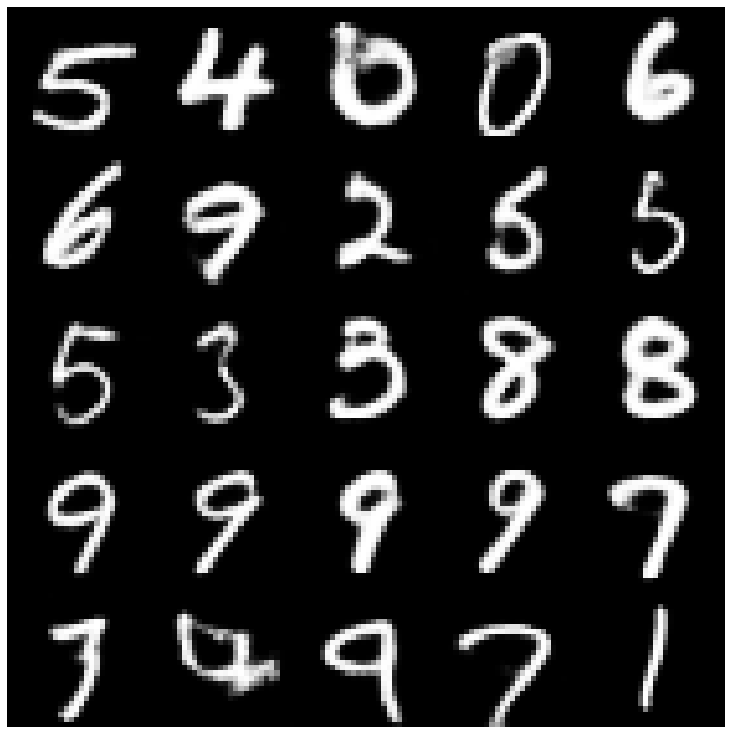
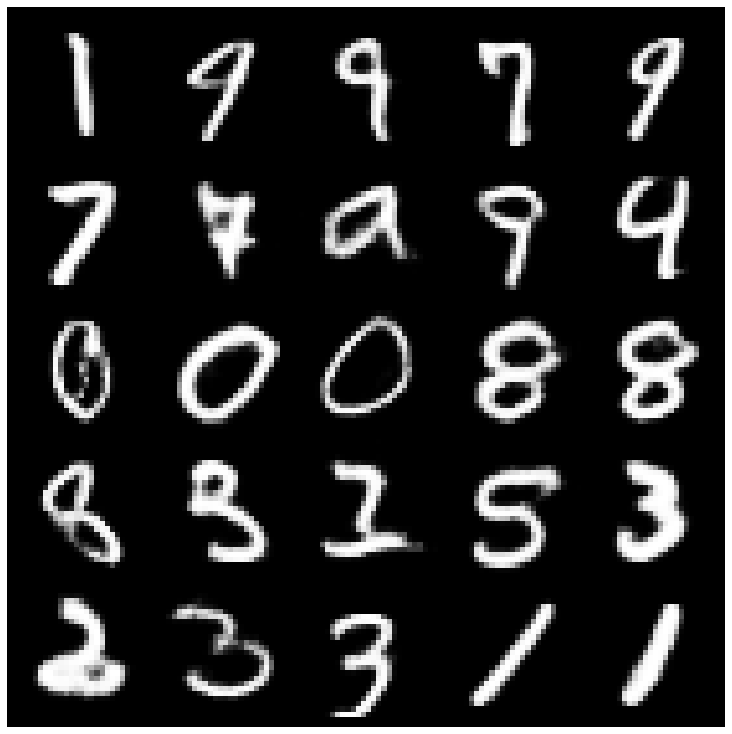
add showcases

diff --git a/README.md b/README.md
@@ -239,9 +239,10 @@ If you are experiencing any issues while running the code or request new feature
 |:----------------------------------:|:--------------------------------------------------------------------------------------------------------------------------------------------------------------------------------------:|:--------------------------------------------:|
 | AE  + GaussianMixtureSampler                  | ![AE GMM](https://github.com/clementchadebec/benchmark_VAE/blob/main/examples/showcases/ae_gmm_sampling_mnist.png) | ![AE GMM](https://github.com/clementchadebec/benchmark_VAE/blob/main/examples/showcases/ae_gmm_sampling_celeba.png)                                                                            |
 | VAE  + NormalSampler    | ![VAE Normal](https://github.com/clementchadebec/benchmark_VAE/blob/main/examples/showcases/vae_normal_sampling_mnist.png) |  ![VAE Normal](https://github.com/clementchadebec/benchmark_VAE/blob/main/examples/showcases/vae_normal_sampling_celeba.png)
-| Beta Variational Autoencoder (Beta_VAE) | | 
+| Beta Variational Autoencoder (Beta_VAE) | [Beta Normal](https://github.com/clementchadebec/benchmark_VAE/blob/main/examples/showcases/beta_vae_normal_sampling_mnist.png) | 
 | Importance Weighted Autoencoder (IWAE) +  Normal smapler | ![IWAE Normal](https://github.com/clementchadebec/benchmark_VAE/blob/main/examples/showcases/iwae_normal_sampling_mnist.png) | ![IWAE Normal](https://github.com/clementchadebec/benchmark_VAE/blob/main/examples/showcases/iwae_normal_sampling_celeba.png)
 | WAE + NormalSampler| ![WAE Normal](https://github.com/clementchadebec/benchmark_VAE/blob/main/examples/showcases/wae_normal_sampling_mnist.png) | ![WAE Normal](https://github.com/clementchadebec/benchmark_VAE/blob/main/examples/showcases/wae_normal_sampling_celeba.png)
+| INFO VAE + NormalSampler| ![INFO Normal](https://github.com/clementchadebec/benchmark_VAE/blob/main/examples/showcases/info_vae_normal_sampling_mnist.png) | ![INFO Normal](https://github.com/clementchadebec/benchmark_VAE/blob/main/examples/showcases/info_vae_normal_sampling_celeba.png)
 | VAMP + VAMPSampler          | ![VAMP Vamp](https://github.com/clementchadebec/benchmark_VAE/blob/main/examples/showcases/vamp_vamp_sampling_mnist.png) | ![VAMP Vamp](https://github.com/clementchadebec/benchmark_VAE/blob/main/examples/showcases/vamp_vamp_sampling_celeba.png) |
 | HVAE + GaussianMixtureSampler             | ![HVAE GMM](https://github.com/clementchadebec/benchmark_VAE/blob/main/examples/showcases/hvae_gmm_sampling_mnist.png) | ![HVAE GMM](https://github.com/clementchadebec/benchmark_VAE/blob/main/examples/showcases/hvae_gmm_sampling_celeba.png)
 | RAE_L2 + GaussianMixtureSampler | ![RAE L2 GMM](https://github.com/clementchadebec/benchmark_VAE/blob/main/examples/showcases/rae_l2_gmm_sampling_mnist.png)  |  ![RAE L2 GMM](https://github.com/clementchadebec/benchmark_VAE/blob/main/examples/showcases/rae_l2_gmm_sampling_celeba.png)
